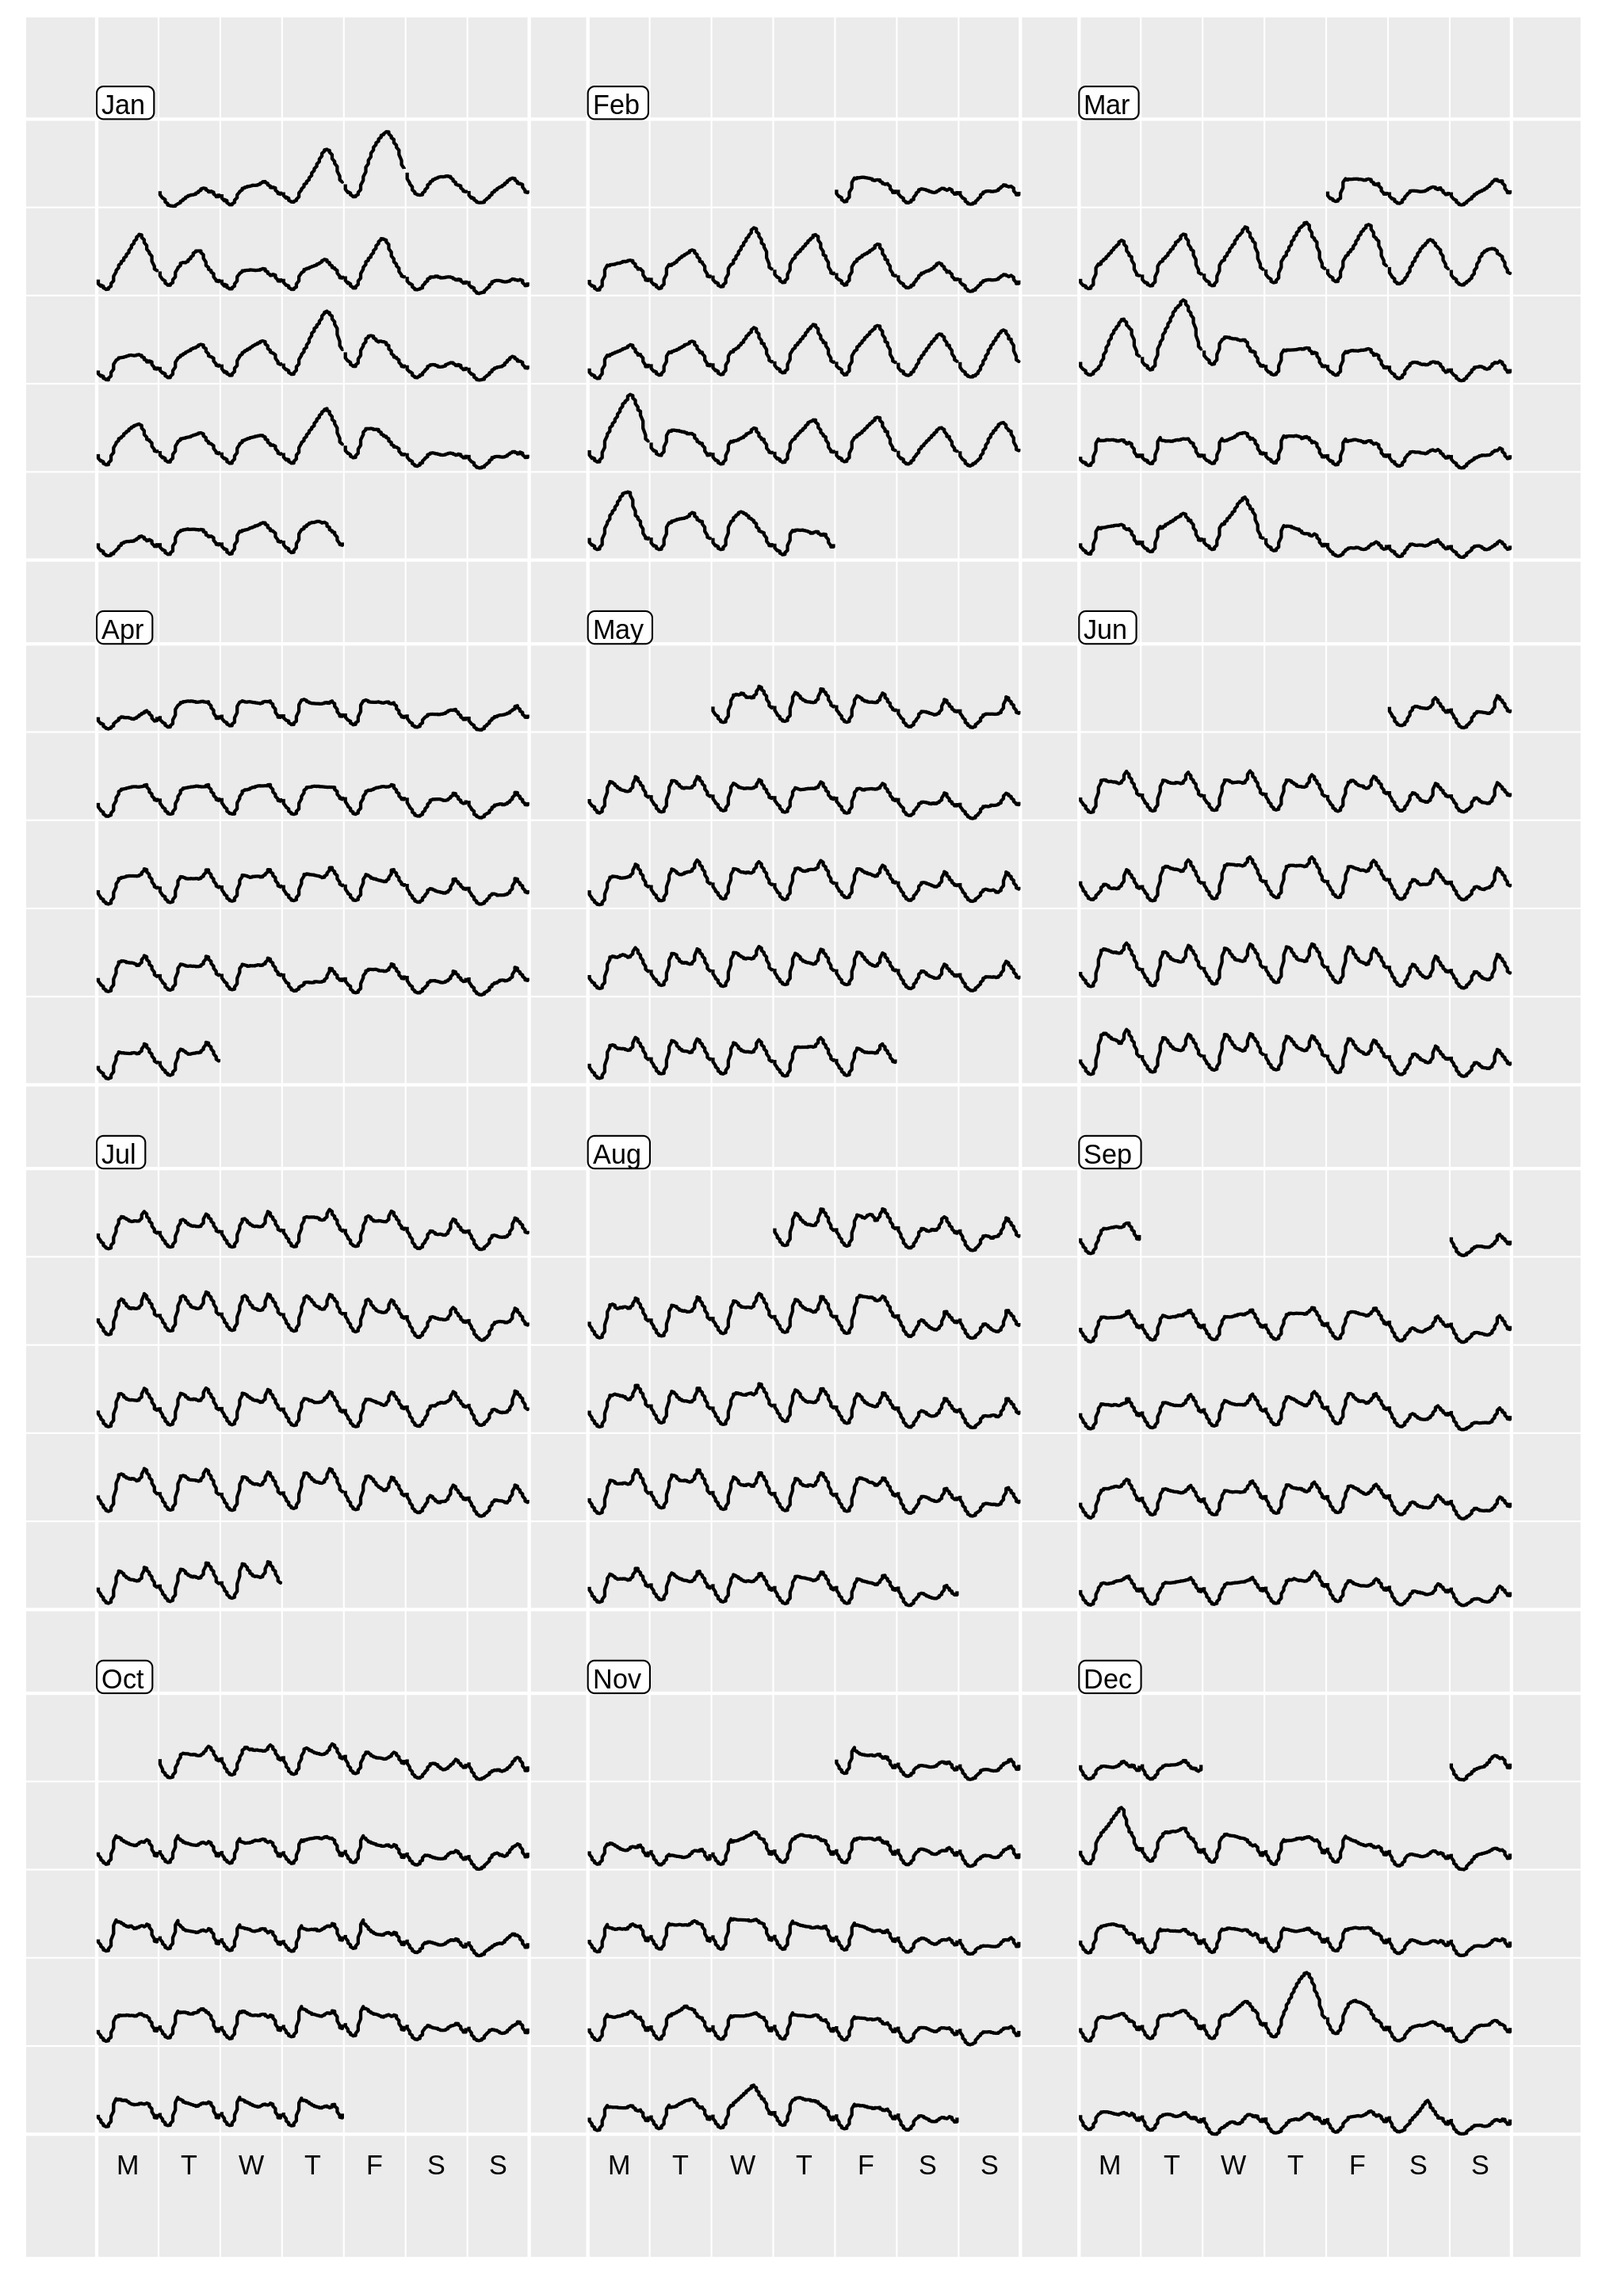
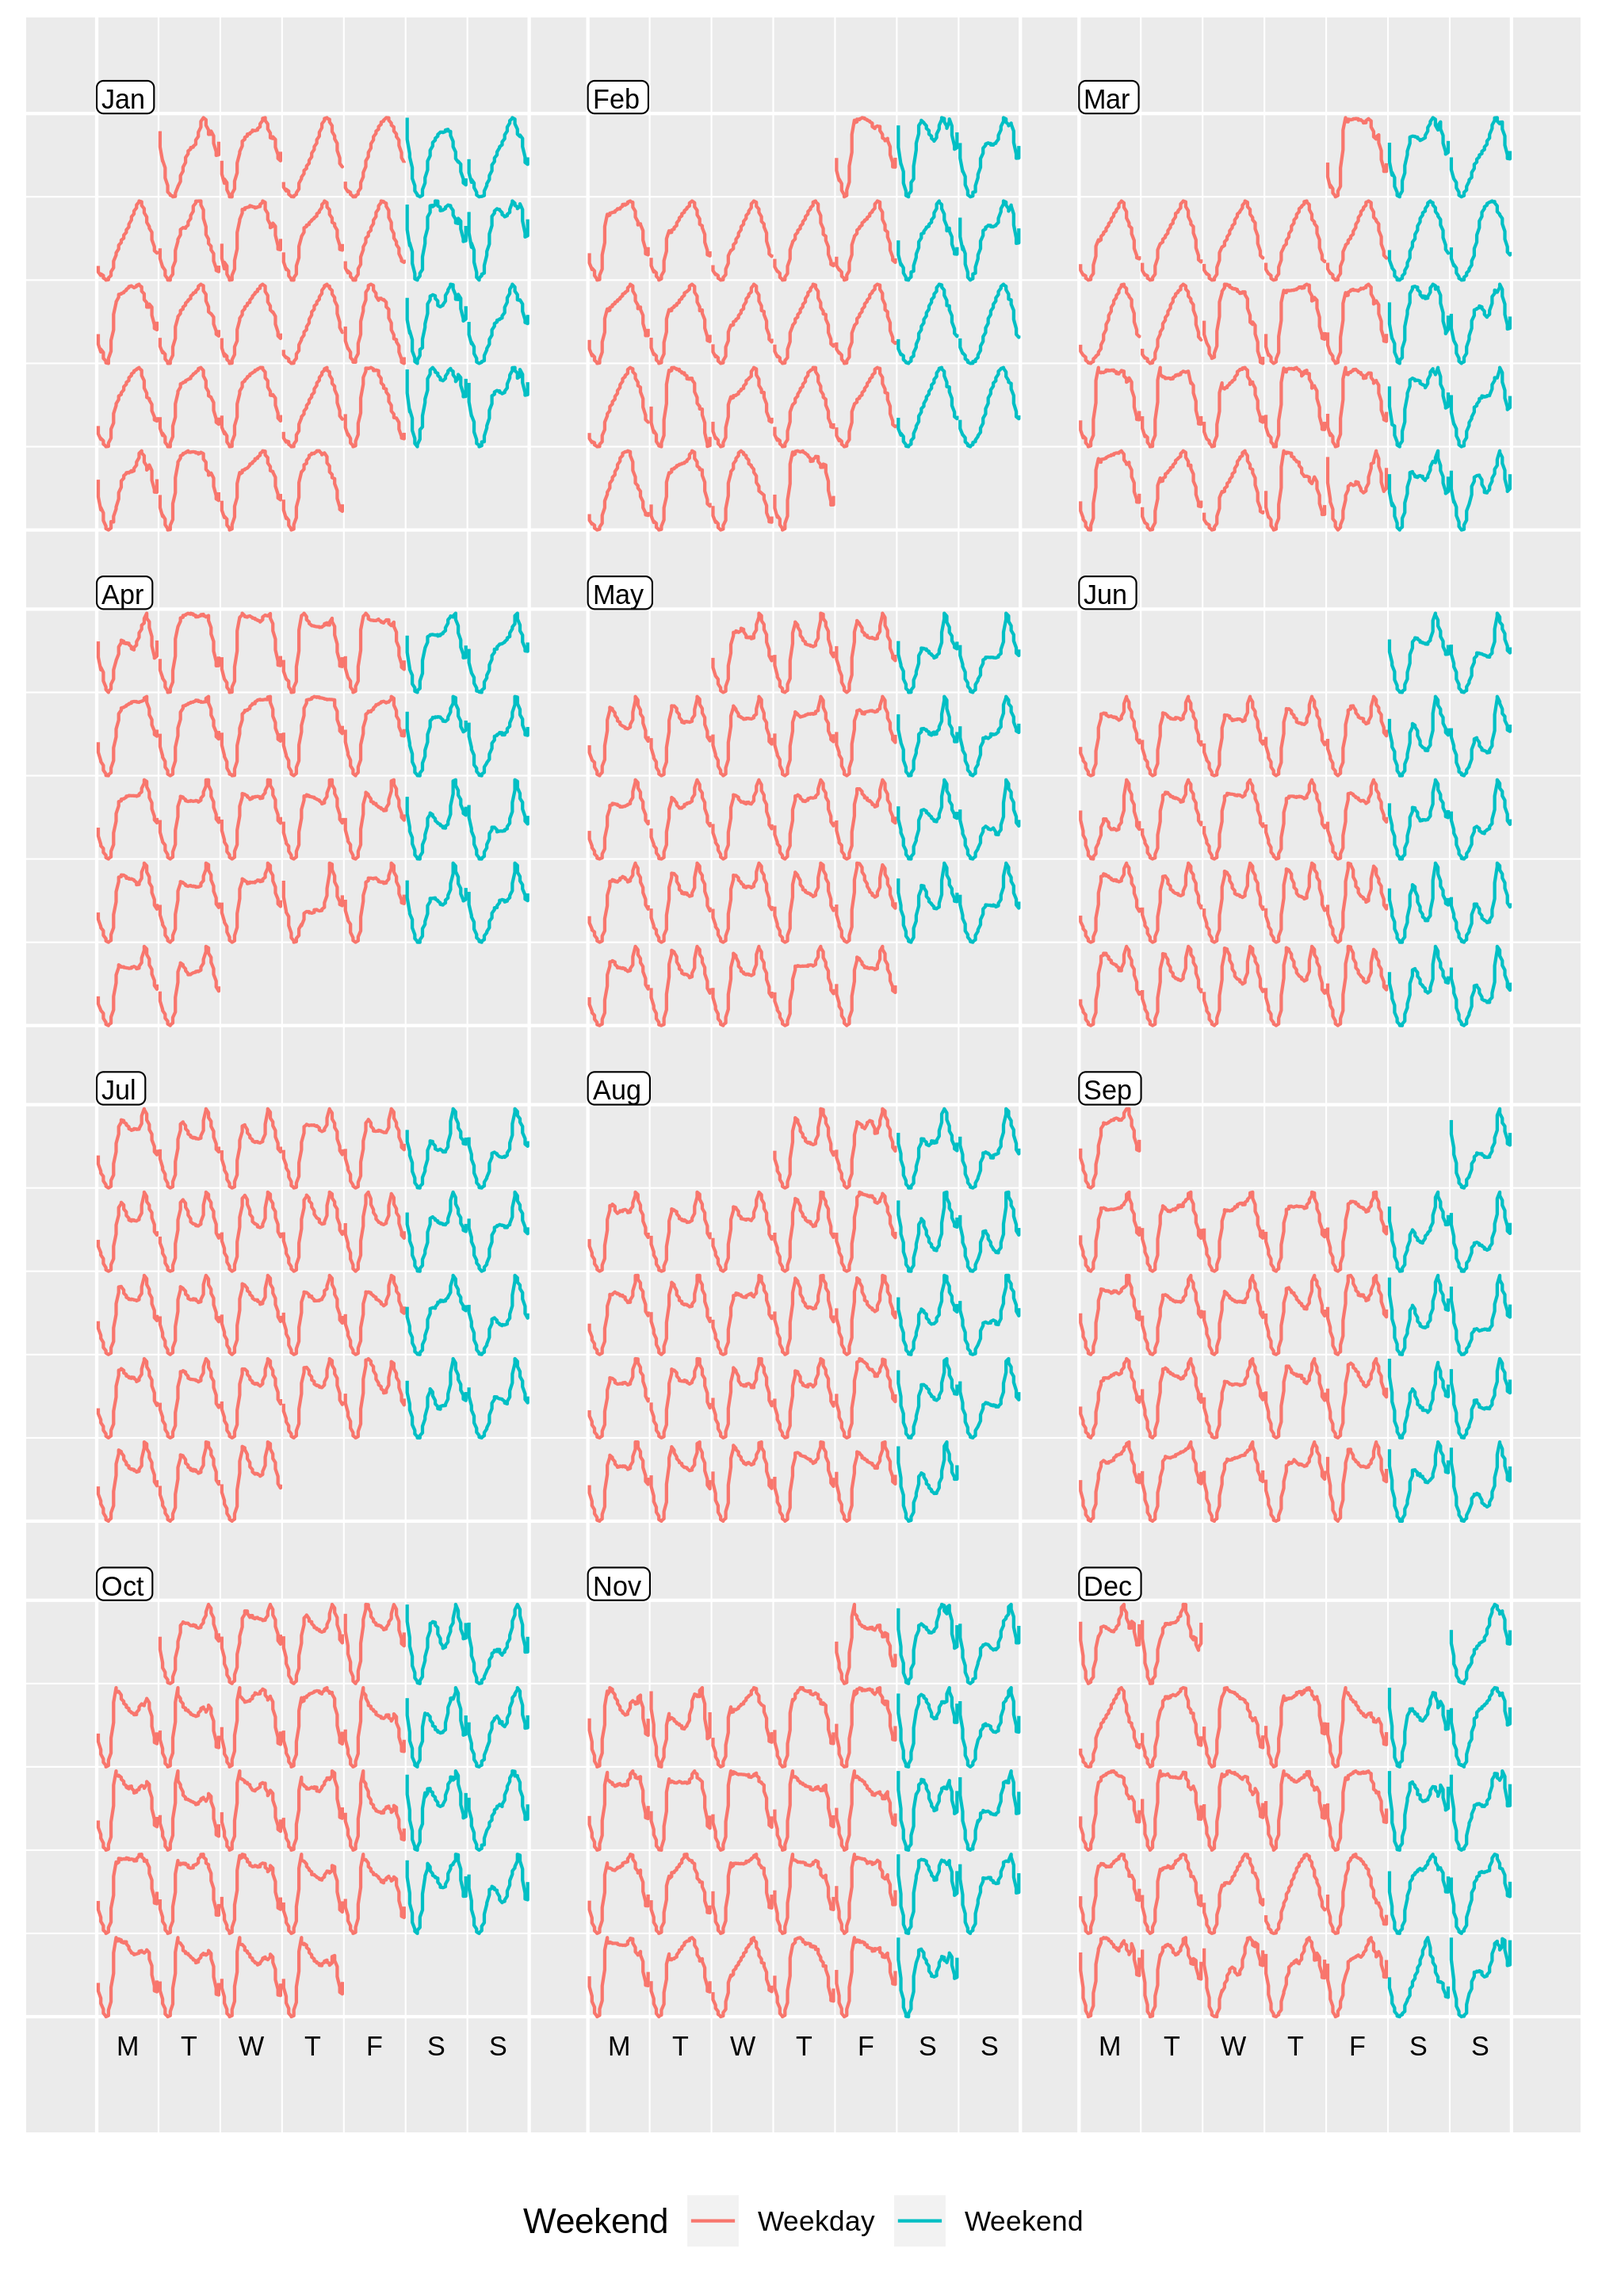
More writing

diff --git a/public/post/exploratory-analysis-of-time-series-data-with-tidyverts/index.html b/public/post/exploratory-analysis-of-time-series-data-with-tidyverts/index.html
@@ -526,7 +526,7 @@ holidays_ts %&gt;%
 </div>
 <div id="calendar-plots" class="section level3">
 <h3>Calendar Plots</h3>
-<p>Earo Wang’s <a href="https://github.com/earowang/sugrrants">sugrrants</a> package is not a part of Tidyverts but it helps us create calendar plots that are just too pretty to be left out of this post.</p>
+<p>Earo Wang’s <a href="https://github.com/earowang/sugrrants">sugrrants</a> package is not a part of Tidyverts but it helps us create calendar plots that are just too pretty to be left out of this post. Since this is not part of tidyverts it actually is easier to manipulate the data as a tibble. There are two flavors of this plot shown below. The second is particularly useful if you are trying to show more than a few months worth of data in a calendar format.</p>
 <pre class="r"><code>tsibbledata::vic_elec %&gt;%
   as_tibble %&gt;%
   mutate(Hour = lubridate::hour(Time)) %&gt;%
@@ -534,29 +534,36 @@ holidays_ts %&gt;%
          lubridate::month(Date) %in% c(4,5)) %&gt;%
   group_by(Date,Hour) %&gt;%
   summarise(Demand = sum(Demand)) %&gt;%
-  ggplot(aes(x = Hour, y = Demand)) +
+  mutate(Weekend = if_else(lubridate::wday(Date)  %in% c(1,7), &quot;Weekend&quot;, &quot;Weekday&quot;)) %&gt;%
+  ggplot(aes(x = Hour, y = Demand, col = Weekend)) +
   geom_line() +
   sugrrants::facet_calendar(~ Date, ncol = 1) +
-  theme_bw()</code></pre>
+  theme_bw() +
+  theme(legend.position = &quot;bottom&quot;)</code></pre>
 <p><img src="../../post/2020-02-10-exploratory-analysis-of-time-series-data-with-tidyverts_files/figure-html/calendar_hourly1-1.png" width="672" /></p>
 <pre class="r"><code>calendar &lt;- tsibbledata::vic_elec %&gt;%
   filter(lubridate::year(Date) == 2013) %&gt;%
   mutate(Hour = lubridate::hour(Time)) %&gt;%
+  group_by(Date,Hour) %&gt;%
+  summarise(Demand = sum(Demand)) %&gt;%
+  mutate(Weekend = if_else(lubridate::wday(Date)  %in% c(1,7), &quot;Weekend&quot;, &quot;Weekday&quot;)) %&gt;%
   sugrrants::frame_calendar(
     x = Hour, 
     y = Demand, 
     date = Date, 
     nrow = 4
   ) %&gt;%
-  ggplot(aes(x = .Hour, y = .Demand, group = Date)) +
-  geom_line()
-  
+  ggplot(aes(x = .Hour, y = .Demand, group = Date, col = Weekend)) +
+  geom_line() +
+  theme(legend.position = &quot;bottom&quot;)
+
 sugrrants::prettify(calendar, size = 3, label.padding = unit(0.15, &quot;lines&quot;))</code></pre>
 <p><img src="../../post/2020-02-10-exploratory-analysis-of-time-series-data-with-tidyverts_files/figure-html/calendar_hourly2-1.png" width="672" /></p>
 </div>
 </div>
 <div id="acf-plots" class="section level2">
 <h2>ACF Plots</h2>
+<p>Auto-corrections of lagged values for a time series can provide valuable insight in to seasonal or cyclical trends present in the data. The feasts package a an ACF() function that will provide these auto-correlation values for a tsibble object.</p>
 <pre class="r"><code>holidays_ts %&gt;%
   filter(State == &quot;Victoria&quot;) %&gt;%
   feasts::ACF(Trips, lag_max = 12) </code></pre>
@@ -576,10 +583,14 @@ sugrrants::prettify(calendar, size = 3, label.padding = unit(0.15, &quot;lines&q
 ## 10 Victoria   10Q -0.442  
 ## 11 Victoria   11Q -0.00197
 ## 12 Victoria   12Q  0.660</code></pre>
+<p>Feeding these values into the autoplot() function will create an ACF plot that includes a confidence band to help determine significant autocorrelations. Time series with auto-correlations outside of the confidnce bands at constant intervals indicate seasonality. Creating ACF plots on the residuals left over from a forecast can help determing if there are remaining patterns in the data that your model is not accounting for.</p>
 <pre class="r"><code>holidays_ts %&gt;%
   feasts::ACF(Trips) %&gt;%
   autoplot()</code></pre>
 <p><img src="../../post/2020-02-10-exploratory-analysis-of-time-series-data-with-tidyverts_files/figure-html/acf2-1.png" width="672" /></p>
+</div>
+<div id="decompositions" class="section level2">
+<h2>Decompositions</h2>
 <pre class="r"><code>vic_dcmp &lt;- holidays_ts %&gt;%
   filter(State == &quot;Victoria&quot;) %&gt;%
   fabletools::model(feasts::STL(Trips)) %&gt;%
@@ -606,11 +617,6 @@ head(vic_dcmp)</code></pre>
   autoplot(Trips) +
   autolayer(vic_dcmp, trend, col = &#39;blue&#39;)</code></pre>
 <p><img src="../../post/2020-02-10-exploratory-analysis-of-time-series-data-with-tidyverts_files/figure-html/combining-1.png" width="672" /></p>
-<p><img src="../../post/2020-02-10-exploratory-analysis-of-time-series-data-with-tidyverts_files/figure-html/combining_all_dcmp-1.png" width="672" /></p>
-<pre class="r"><code>## Look at subseries of the seasonal pattern
-feasts::gg_subseries(holiday_dcmp, season_year)</code></pre>
-<p><img src="../../post/2020-02-10-exploratory-analysis-of-time-series-data-with-tidyverts_files/figure-html/combining_all_sub-1.png" width="672" /></p>
-<p><img src="../../post/2020-02-10-exploratory-analysis-of-time-series-data-with-tidyverts_files/figure-html/combining_all-1.png" width="672" /></p>
 <pre class="r"><code>tourism_stl_feats &lt;- tourism_ts %&gt;%
   fabletools::features(Trips, features = feasts::feat_stl) 
 

diff --git a/content/post/2020-02-10-exploratory-analysis-of-time-series-data-with-tidyverts.html b/content/post/2020-02-10-exploratory-analysis-of-time-series-data-with-tidyverts.html
@@ -110,7 +110,7 @@ holidays_ts %&gt;%
 </div>
 <div id="calendar-plots" class="section level3">
 <h3>Calendar Plots</h3>
-<p>Earo Wang’s <a href="https://github.com/earowang/sugrrants">sugrrants</a> package is not a part of Tidyverts but it helps us create calendar plots that are just too pretty to be left out of this post.</p>
+<p>Earo Wang’s <a href="https://github.com/earowang/sugrrants">sugrrants</a> package is not a part of Tidyverts but it helps us create calendar plots that are just too pretty to be left out of this post. Since this is not part of tidyverts it actually is easier to manipulate the data as a tibble. There are two flavors of this plot shown below. The second is particularly useful if you are trying to show more than a few months worth of data in a calendar format.</p>
 <pre class="r"><code>tsibbledata::vic_elec %&gt;%
   as_tibble %&gt;%
   mutate(Hour = lubridate::hour(Time)) %&gt;%
@@ -118,29 +118,36 @@ holidays_ts %&gt;%
          lubridate::month(Date) %in% c(4,5)) %&gt;%
   group_by(Date,Hour) %&gt;%
   summarise(Demand = sum(Demand)) %&gt;%
-  ggplot(aes(x = Hour, y = Demand)) +
+  mutate(Weekend = if_else(lubridate::wday(Date)  %in% c(1,7), &quot;Weekend&quot;, &quot;Weekday&quot;)) %&gt;%
+  ggplot(aes(x = Hour, y = Demand, col = Weekend)) +
   geom_line() +
   sugrrants::facet_calendar(~ Date, ncol = 1) +
-  theme_bw()</code></pre>
+  theme_bw() +
+  theme(legend.position = &quot;bottom&quot;)</code></pre>
 <p><img src="/post/2020-02-10-exploratory-analysis-of-time-series-data-with-tidyverts_files/figure-html/calendar_hourly1-1.png" width="672" /></p>
 <pre class="r"><code>calendar &lt;- tsibbledata::vic_elec %&gt;%
   filter(lubridate::year(Date) == 2013) %&gt;%
   mutate(Hour = lubridate::hour(Time)) %&gt;%
+  group_by(Date,Hour) %&gt;%
+  summarise(Demand = sum(Demand)) %&gt;%
+  mutate(Weekend = if_else(lubridate::wday(Date)  %in% c(1,7), &quot;Weekend&quot;, &quot;Weekday&quot;)) %&gt;%
   sugrrants::frame_calendar(
     x = Hour, 
     y = Demand, 
     date = Date, 
     nrow = 4
   ) %&gt;%
-  ggplot(aes(x = .Hour, y = .Demand, group = Date)) +
-  geom_line()
-  
+  ggplot(aes(x = .Hour, y = .Demand, group = Date, col = Weekend)) +
+  geom_line() +
+  theme(legend.position = &quot;bottom&quot;)
+
 sugrrants::prettify(calendar, size = 3, label.padding = unit(0.15, &quot;lines&quot;))</code></pre>
 <p><img src="/post/2020-02-10-exploratory-analysis-of-time-series-data-with-tidyverts_files/figure-html/calendar_hourly2-1.png" width="672" /></p>
 </div>
 </div>
 <div id="acf-plots" class="section level2">
 <h2>ACF Plots</h2>
+<p>Auto-corrections of lagged values for a time series can provide valuable insight in to seasonal or cyclical trends present in the data. The feasts package a an ACF() function that will provide these auto-correlation values for a tsibble object.</p>
 <pre class="r"><code>holidays_ts %&gt;%
   filter(State == &quot;Victoria&quot;) %&gt;%
   feasts::ACF(Trips, lag_max = 12) </code></pre>
@@ -160,10 +167,14 @@ sugrrants::prettify(calendar, size = 3, label.padding = unit(0.15, &quot;lines&q
 ## 10 Victoria   10Q -0.442  
 ## 11 Victoria   11Q -0.00197
 ## 12 Victoria   12Q  0.660</code></pre>
+<p>Feeding these values into the autoplot() function will create an ACF plot that includes a confidence band to help determine significant autocorrelations. Time series with auto-correlations outside of the confidnce bands at constant intervals indicate seasonality. Creating ACF plots on the residuals left over from a forecast can help determing if there are remaining patterns in the data that your model is not accounting for.</p>
 <pre class="r"><code>holidays_ts %&gt;%
   feasts::ACF(Trips) %&gt;%
   autoplot()</code></pre>
 <p><img src="/post/2020-02-10-exploratory-analysis-of-time-series-data-with-tidyverts_files/figure-html/acf2-1.png" width="672" /></p>
+</div>
+<div id="decompositions" class="section level2">
+<h2>Decompositions</h2>
 <pre class="r"><code>vic_dcmp &lt;- holidays_ts %&gt;%
   filter(State == &quot;Victoria&quot;) %&gt;%
   fabletools::model(feasts::STL(Trips)) %&gt;%
@@ -190,11 +201,6 @@ head(vic_dcmp)</code></pre>
   autoplot(Trips) +
   autolayer(vic_dcmp, trend, col = &#39;blue&#39;)</code></pre>
 <p><img src="/post/2020-02-10-exploratory-analysis-of-time-series-data-with-tidyverts_files/figure-html/combining-1.png" width="672" /></p>
-<p><img src="/post/2020-02-10-exploratory-analysis-of-time-series-data-with-tidyverts_files/figure-html/combining_all_dcmp-1.png" width="672" /></p>
-<pre class="r"><code>## Look at subseries of the seasonal pattern
-feasts::gg_subseries(holiday_dcmp, season_year)</code></pre>
-<p><img src="/post/2020-02-10-exploratory-analysis-of-time-series-data-with-tidyverts_files/figure-html/combining_all_sub-1.png" width="672" /></p>
-<p><img src="/post/2020-02-10-exploratory-analysis-of-time-series-data-with-tidyverts_files/figure-html/combining_all-1.png" width="672" /></p>
 <pre class="r"><code>tourism_stl_feats &lt;- tourism_ts %&gt;%
   fabletools::features(Trips, features = feasts::feat_stl) 
 
